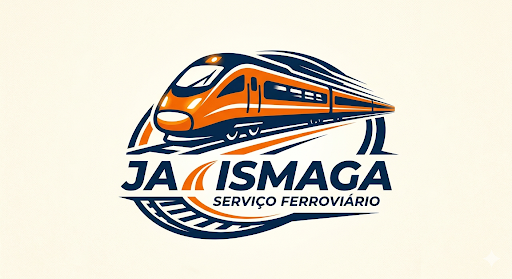
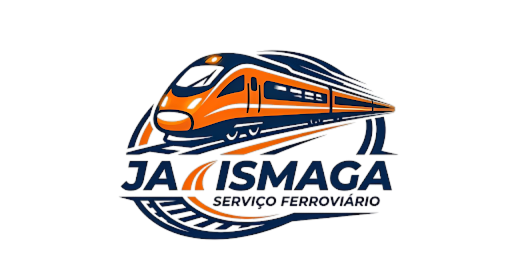
add

diff --git a/index.html b/index.html
@@ -3,32 +3,30 @@
     <meta charset="UTF-8">
     <meta name="viewport" content="width=device-width, initial-scale=1.0">
     <title>Index</title>
-    <link rel="stylesheet" href="style.css">
+    <link rel="stylesheet" href="styles/style.css">
     <link href="https://cdn.jsdelivr.net/npm/bootstrap@5.3.0/dist/css/bootstrap.min.css" rel="stylesheet">
 </head>
 <body>
  
     <div class="site">
+       
         <nav class="navbar">
-            <div class="container">
-                <h2>Estruturação do Projeto<h2>
-                </div>
-            </nav>
-            
-            <div class="container2">
-                <div class="col-md-7">
-                    <header>
-                        <img src="assets/imagem_1.webp.png" alt="trem">
-                    </header>
-                    <h1>Serviço Ferroviario</h1>
-                    <p class="lead">A protagonista do filme "Bailarina".</p>
-                    <p>Félicie é a protagonista do filme "Bailarina", que passa de uma órfã lavando pratos a uma bailarina da Ópera de Paris. Sua voz é dublada por Elle Fanning .</p>
-                    <p>O sobrenome de Félicie era originalmente Milliner, porém, devido a questões regionais, teve que ser alterado. [ 1 ] Summer também acrescentou que "Félicie Milliner" é seu nome canônico completo.</p>
-                </div>
-                <a href="public/login.html"> <button> Login </button> </a>
+          <h2>Estruturação do Projeto</h2>
+       </nav>
                 
-            </div>
+       <div class="topo">
+           <img src="assets/imagem_1.webp.png" alt="trem">
+       </div>
+             
+      <div class="conteudo">
+
+          <h1>Serviço Ferroviário</h1>
+          <p class="lead">Acompanhe seu metrô em tempo real</p>
         </div>
+        
+        <a href="public/login.html"> <button> Fazer Login </button> </a>
+        
     </div>
+
 </body>
 </html>

diff --git a/styles/style.css b/styles/style.css
@@ -8,6 +8,17 @@ header{
 }
 
 .site {
+    display: grid;
+    justify-items: center;
+    color: rgb(22, 4, 80);
+    background-color: rgb(255, 255, 255);
+}
+
+.img{
     align-self: center;
-    color: aqua;
+}
+
+.navbar {
+    background-color: blanchedalmond;
+    
 }